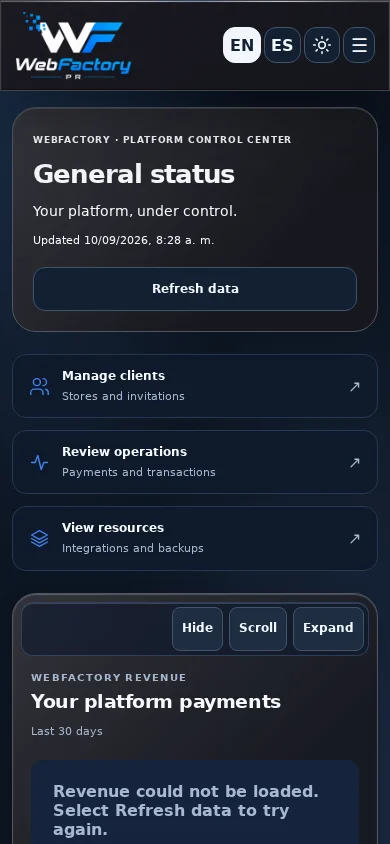
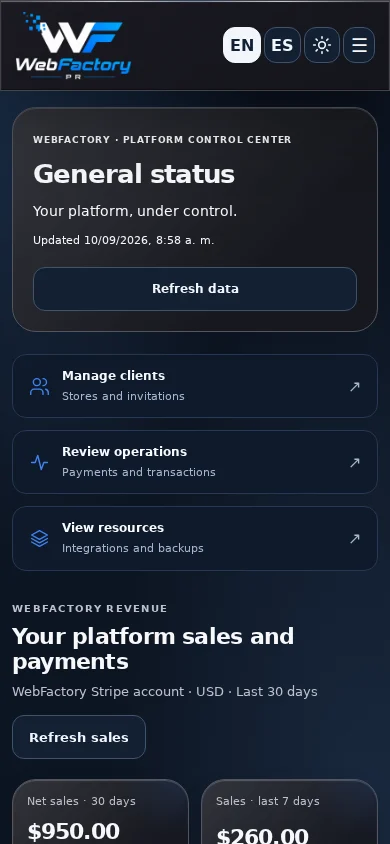
Add administrative sales cards and daily/refund charts with verified revenue states

Changed region(s): [[0.0308, 0.6777, 0.9538, 1.0], [0.8615, 0.8009, 0.9846, 0.955], [0.8615, 0.9858, 0.9231, 1.0]]

diff --git a/src/PlatformRevenue.tsx b/src/PlatformRevenue.tsx
@@ -1,22 +1,35 @@
 import { useEffect, useState } from 'react'
 import { PortalPanel } from './PortalPanel'
 import { withAuthRetry } from './auth-retry'
+import './platform-sales.css'
 
-type Revenue={available:boolean;reason?:string;complete?:boolean;mode?:string;generatedAt?:string;periodStart?:string;periodEnd?:string;netCents?:number;refundedCents?:number;paymentCount?:number;last7DaysCents?:number;days?:Array<{date:string;netCents:number}>}
+type Revenue={available:boolean;reason?:string;complete?:boolean;mode?:string;generatedAt?:string;periodStart?:string;periodEnd?:string;capturedCents?:number;netCents?:number;refundedCents?:number;paymentCount?:number;last7DaysCents?:number;days?:Array<{date:string;netCents:number}>}
 export default function PlatformRevenue({lang,refreshKey}:{lang:'en'|'es';refreshKey:string}){
-  const es=lang==='es';const [revenue,setRevenue]=useState<Revenue|null>(null);const [loading,setLoading]=useState(true)
-  useEffect(()=>{let active=true;setLoading(true);withAuthRetry(async()=>{const response=await fetch('/.netlify/functions/webfactory-admin-revenue',{credentials:'include',cache:'no-store'});const result=await response.json();if(!response.ok||result.ok===false)throw new Error('Revenue unavailable');return result.revenue as Revenue}).then(value=>{if(active)setRevenue(value)}).catch(()=>{if(active)setRevenue({available:false,reason:'temporarily_unavailable'})}).finally(()=>{if(active)setLoading(false)});return()=>{active=false}},[refreshKey])
+  const es=lang==='es';const [revenue,setRevenue]=useState<Revenue|null>(null);const [loading,setLoading]=useState(true);const [retry,setRetry]=useState(0)
+  useEffect(()=>{let active=true;setLoading(true);withAuthRetry(async()=>{const response=await fetch('/.netlify/functions/webfactory-admin-revenue',{credentials:'include',cache:'no-store'});const result=await response.json();if(!response.ok||result.ok===false)throw new Error('Revenue unavailable');return result.revenue as Revenue}).then(value=>{if(active)setRevenue(value)}).catch(()=>{if(active)setRevenue({available:false,reason:'temporarily_unavailable'})}).finally(()=>{if(active)setLoading(false)});return()=>{active=false}},[refreshKey,retry])
   const money=(cents:number)=>new Intl.NumberFormat(es?'es-PR':'en-US',{style:'currency',currency:'USD'}).format(cents/100)
   const chartAmount=(cents:number)=>new Intl.NumberFormat(es?'es-PR':'en-US',{notation:cents>=100000?'compact':'standard',maximumFractionDigits:cents>=100000?1:2}).format(cents/100)
   const date=(value:string)=>new Date(`${value}T12:00:00Z`).toLocaleDateString(es?'es-PR':'en-US',{month:'short',day:'numeric',timeZone:'America/Puerto_Rico'})
   const days=revenue?.days||[];const max=Math.max(1,...days.map(day=>day.netCents));const ready=!loading&&revenue?.available
-  return <PortalPanel className="wfa-card wfa-revenue"><header><div><small>{es?'INGRESOS DE WEBFACTORY':'WEBFACTORY REVENUE'}</small><h2>{es?'Cobros de tu plataforma':'Your platform payments'}</h2></div><span className="wfa-revenue-period">{es?'Últimos 30 días':'Last 30 days'}</span></header>
-    <div aria-live="polite">{loading?<p className="wfa-empty">{es?'Consultando cobros en Stripe…':'Loading payments from Stripe…'}</p>:!revenue?.available?<p className="wfa-empty">{revenue?.reason==='not_configured'?(es?'Conecta Stripe para consultar los cobros de WebFactory.':'Configure Stripe to view WebFactory payments.'):(es?'No pudimos consultar los ingresos. Pulsa Actualizar datos para intentar de nuevo.':'Revenue could not be loaded. Select Refresh data to try again.')}</p>:null}</div>
-    {ready&&<>{revenue.mode==='test'&&<p className="wfa-alert danger" role="status">{es?'MODO DE PRUEBAS · Estos cobros no son ingresos reales.':'TEST MODE · These payments are not real revenue.'}</p>}{!revenue.complete&&<p className="wfa-alert danger" role="status">{es?'Historial parcial: los totales corresponden solo a los cobros cargados.':'Partial history: totals only reflect loaded payments.'}</p>}
-    <div className="wfa-revenue-metrics">{[[es?'Cobros netos · 30 días':'Net payments · 30 days',money(revenue.netCents||0),es?'Cobrado menos reembolsos':'Captured less refunds'],[es?'Últimos 7 días':'Last 7 days',money(revenue.last7DaysCents||0),es?'Total de la gráfica':'Chart total'],[es?'Pagos confirmados':'Confirmed payments',String(revenue.paymentCount||0),es?'Dentro del período':'Within this period'],[es?'Reembolsos aplicados':'Applied refunds',money(revenue.refundedCents||0),es?'Sobre cobros del período':'On payments in this period']].map(([label,value,note])=><article key={label}><small>{label}</small><strong>{value}</strong><span>{note}</span></article>)}</div>
-    <h3>{es?'Cobros de los últimos 7 días':'Payments in the last 7 days'}</h3><div className="wfa-revenue-chart" role="img" aria-label={days.map(day=>`${date(day.date)}: ${money(day.netCents)}`).join('; ')}>{days.map(day=><div key={day.date}><span title={money(day.netCents)}>{chartAmount(day.netCents)}</span><div className="wfa-revenue-track"><i style={{height:`${day.netCents/max*100}%`}}/></div><small>{new Date(`${day.date}T12:00:00Z`).toLocaleDateString(es?'es-PR':'en-US',{weekday:'short',timeZone:'America/Puerto_Rico'})}</small></div>)}</div>
-    {!revenue.paymentCount&&<p className="wfa-note">{es?'No hay cobros confirmados en este período.':'No confirmed payments in this period.'}</p>}
-    <p className="wfa-note">{revenue.periodStart&&date(revenue.periodStart)} – {revenue.periodEnd&&date(revenue.periodEnd)} · USD · {es?'Puerto Rico':'Puerto Rico'}{revenue.generatedAt&&` · ${es?'Actualizado':'Updated'} ${new Date(revenue.generatedAt).toLocaleTimeString(es?'es-PR':'en-US',{hour:'numeric',minute:'2-digit',timeZone:'America/Puerto_Rico'})}`}</p>
-    <p className="wfa-note">{es?'Cuenta Stripe de WebFactory. Excluye ventas destinadas a clientes, otras monedas y cobros disputados. Antes de comisiones, impuestos y gastos; no representa ganancias ni saldo disponible. Los reembolsos se descuentan del día original del cobro.':'WebFactory Stripe account. Excludes client destination payments, other currencies and disputed charges. Before fees, taxes and expenses; this is not profit or available balance. Refunds reduce the original payment day.'}</p></>}
-  </PortalPanel>
+  const metrics=[[es?'Ventas netas · 30 días':'Net sales · 30 days',money(revenue?.netCents||0),es?'Cobros menos reembolsos':'Payments less refunds'],[es?'Ventas · últimos 7 días':'Sales · last 7 days',money(revenue?.last7DaysCents||0),es?'Total de la gráfica diaria':'Daily chart total'],[es?'Pagos confirmados':'Confirmed payments',String(revenue?.paymentCount||0),es?'Dentro del período':'Within this period'],[es?'Reembolsos aplicados':'Applied refunds',money(revenue?.refundedCents||0),es?'Sobre cobros del período':'On payments in this period']]
+  const breakdown=[[es?'Cobros recibidos':'Captured payments',revenue?.capturedCents??((revenue?.netCents||0)+(revenue?.refundedCents||0))],[es?'Reembolsos':'Refunds',revenue?.refundedCents||0]] as Array<[string,number]>
+  const breakdownMax=Math.max(1,...breakdown.map(([,amount])=>amount))
+  return <section className="wfa-sales wfa-revenue" aria-label={es?'Ventas de WebFactory':'WebFactory sales'} aria-busy={loading}>
+    <header className="wfa-sales-heading"><div><small>{es?'INGRESOS DE WEBFACTORY':'WEBFACTORY REVENUE'}</small><h2>{es?'Ventas y cobros de tu plataforma':'Your platform sales and payments'}</h2><p>{es?'Cuenta Stripe de WebFactory · USD · Últimos 30 días':'WebFactory Stripe account · USD · Last 30 days'}</p></div><button type="button" onClick={()=>setRetry(value=>value+1)} disabled={loading}>{es?'Actualizar ventas':'Refresh sales'}</button></header>
+    <div aria-live="polite">{loading?<p className="wfa-empty">{es?'Consultando cobros en Stripe…':'Loading payments from Stripe…'}</p>:!revenue?.available?<p className="wfa-empty">{revenue?.reason==='not_configured'?(es?'Conecta Stripe para consultar los cobros de WebFactory.':'Configure Stripe to view WebFactory payments.'):(es?'No pudimos consultar los ingresos. Pulsa Actualizar ventas para intentar de nuevo.':'Revenue could not be loaded. Select Refresh sales to try again.')}</p>:null}</div>
+    {ready&&<>{revenue.mode==='test'&&<p className="wfa-alert danger" role="status">{es?'MODO DE PRUEBAS · Estos cobros no son ingresos reales.':'TEST MODE · These payments are not real revenue.'}</p>}{!revenue.complete&&<p className="wfa-alert danger" role="status">{es?'Historial parcial: los totales corresponden solo a los cobros cargados.':'Partial history: totals only reflect loaded payments.'}</p>}</>}
+    <div className="wfa-sales-metrics">{metrics.map(([label,value,note])=><article className="wfa-stat" key={label}><small>{label}</small><strong>{ready?value:'—'}</strong><span>{ready?note:(es?'Pendiente de datos verificados':'Awaiting verified data')}</span></article>)}</div>
+    <div className="wfa-sales-charts">
+      <PortalPanel className="wfa-card wfa-sales-chart"><header><div><small>{es?'RENDIMIENTO':'PERFORMANCE'}</small><h3>{es?'Ventas de los últimos 7 días':'Sales in the last 7 days'}</h3></div><strong>{ready?money(revenue.last7DaysCents||0):'—'}</strong></header>
+        {ready?<div className="wfa-revenue-chart" role="img" aria-label={days.map(day=>`${date(day.date)}: ${money(day.netCents)}`).join('; ')}>{days.map(day=><div key={day.date}><span title={money(day.netCents)}>{chartAmount(day.netCents)}</span><div className="wfa-revenue-track"><i style={{height:`${day.netCents/max*100}%`}}/></div><small>{new Date(`${day.date}T12:00:00Z`).toLocaleDateString(es?'es-PR':'en-US',{weekday:'short',timeZone:'America/Puerto_Rico'})}</small></div>)}</div>:<p className="wfa-sales-empty">{es?'La gráfica aparecerá cuando se puedan consultar los cobros.':'The chart will appear when payments can be retrieved.'}</p>}
+        <p className="wfa-note">{es?'USD · Cobros netos · Zona horaria de Puerto Rico':'USD · Net payments · Puerto Rico time zone'}</p>
+      </PortalPanel>
+      <PortalPanel className="wfa-card wfa-sales-chart"><header><div><small>{es?'RESUMEN DE COBROS':'PAYMENT SUMMARY'}</small><h3>{es?'Cobros y reembolsos':'Payments and refunds'}</h3></div></header>
+        {ready?<div className="wfa-sales-breakdown" role="img" aria-label={breakdown.map(([label,amount])=>`${label}: ${money(amount)}`).join('; ')}>{breakdown.map(([label,amount],index)=><div key={label}><div><span>{label}</span><strong>{money(amount)}</strong></div><div className="wfa-sales-track"><i className={index?'is-refund':''} style={{width:`${amount/breakdownMax*100}%`}}/></div></div>)}</div>:<p className="wfa-sales-empty">{es?'Sin datos disponibles. No se muestran importes estimados.':'No data available. Estimated amounts are not shown.'}</p>}
+        <p className="wfa-note">{es?'Últimos 30 días · Los reembolsos reducen las ventas netas.':'Last 30 days · Refunds reduce net sales.'}</p>
+      </PortalPanel>
+    </div>
+    {ready&&<>{!revenue.paymentCount&&<p className="wfa-note">{es?'No hay cobros confirmados en este período.':'No confirmed payments in this period.'}</p>}<p className="wfa-note">{revenue.periodStart&&date(revenue.periodStart)} – {revenue.periodEnd&&date(revenue.periodEnd)} · USD · Puerto Rico{revenue.generatedAt&&` · ${es?'Actualizado':'Updated'} ${new Date(revenue.generatedAt).toLocaleTimeString(es?'es-PR':'en-US',{hour:'numeric',minute:'2-digit',timeZone:'America/Puerto_Rico'})}`}</p></>}
+    <p className="wfa-note">{es?'Cuenta Stripe de WebFactory. Excluye ventas destinadas a clientes, otras monedas y cobros disputados. Antes de comisiones, impuestos y gastos; no representa ganancias ni saldo disponible. Los reembolsos se descuentan del día original del cobro.':'WebFactory Stripe account. Excludes client destination payments, other currencies and disputed charges. Before fees, taxes and expenses; this is not profit or available balance. Refunds reduce the original payment day.'}</p>
+  </section>
 }

diff --git a/src/StyleReferenceReview.tsx b/src/StyleReferenceReview.tsx
@@ -21,6 +21,7 @@ export default function StyleReferenceReview({ lang, device, theme }: {
     <section><h2>{es?'Carousel Glasssy V2':'Glasssy V2 carousel'}</h2><p className="pr-caption">{es?'Componentes y animaciones del código original, conectados al catálogo de ejemplo y a los colores de la plataforma. Prueba arrastrar, ampliar, guardar favoritos y reproducir.':'Original source components and animations, connected to the sample catalog and platform colors. Try dragging, expanding details, bookmarking and playing.'}</p><div className="template-site" style={{maxWidth:width,margin:'auto'}}><TemplateHighlights items={template.items} language={lang}/></div></section>
     <section><h2>{es ? 'Login Glassy' : 'Glassy login'}</h2><p><a href="/client-admin">{es ? 'Abrir login de clientes' : 'Open client login'} ↗</a> · <a href="/webfactory-admin">{es ? 'Abrir login administrativo' : 'Open admin login'} ↗</a></p><figure className="pr-shot"><img src={`/preview-review/styles/login-${width}-${theme}.webp`} alt={es ? 'Login con fondo original, botones azules y formulario de vidrio' : 'Login with original background, blue buttons and glass form'} /></figure></section>
     <section><h2>{es ? 'Dashboards Glassy' : 'Glassy dashboards'}</h2><div className="pr-style-dashboards">{(['client-admin', 'webfactory-admin'] as const).map(portal => <figure className="pr-shot" key={portal}><img src={`/preview-review/styles/${portal}-overview-${width}-${theme}.webp`} alt={portal === 'client-admin' ? (es ? 'Panel de negocio con vidrio y fondo original' : 'Business dashboard with glass and original background') : (es ? 'Centro administrativo con vidrio y fondo original' : 'Administrative center with glass and original background')} /><figcaption>{portal === 'client-admin' ? (es ? 'Panel del negocio · Datos de ejemplo' : 'Business dashboard · Sample data') : (es ? 'Centro administrativo · Datos de ejemplo' : 'Administrative center · Sample data')}</figcaption></figure>)}</div></section>
+    <section><h2>{es?'Ventas administrativas':'Administrative sales'}</h2><p className="pr-caption">{es?'Tarjetas de ventas netas, últimos siete días, pagos y reembolsos. Gráficas diarias y de cobros frente a reembolsos. Capturas con datos de ejemplo; no representan ingresos reales.':'Net sales, last seven days, payments and refunds cards. Daily and payments-versus-refunds charts. Captures use sample data and do not represent real revenue.'}</p><figure className="pr-shot"><img src={`/preview-review/styles/sales-cards-${width}-${theme}.webp`} alt={es?'Cuatro tarjetas de ventas administrativas con datos de ejemplo':'Four administrative sales cards using sample data'}/></figure><div className="pr-style-dashboards">{['daily','refunds'].map(chart=><figure className="pr-shot" key={chart}><img src={`/preview-review/styles/sales-${chart}-${width}-${theme}.webp`} alt={es?(chart==='daily'?'Gráfica diaria de ventas de ejemplo':'Gráfica de cobros y reembolsos de ejemplo'):(chart==='daily'?'Sample daily sales chart':'Sample payments and refunds chart')}/></figure>)}</div></section>
     <section><h2>{es ? 'Recibo con impresora 3D' : 'Receipt with 3D printer'}</h2><p className="pr-caption">{es ? 'Impresión progresiva, papel curvado y controles para desprender e inspeccionar el recibo. Datos de ejemplo; el portal conserva el recibo guardado, PDF y reenvío.' : 'Progressive printing, curved paper and controls to tear and inspect the receipt. Sample data; the portal retains saved receipts, PDF and resend.'}</p><div className="pr-style-receipt" key={`${device}-${theme}`}><ReceiptPaper receipt={sample} lang={lang}/></div></section>
     <section><h2>{es ? 'Animación hacia el carrito' : 'Fly-to-cart animation'}</h2><p>{es ? 'Abre el catálogo del template y pulsa Añadir para ver cómo la imagen llega al carrito.' : 'Open the template catalog and press Add to see the image fly to the cart.'}</p><a href="/templates/brisa-cocina#services">{es ? 'Probar el carrito del template' : 'Try the template cart'} ↗</a></section>
   </div>

diff --git a/src/platform-sales.css b/src/platform-sales.css
@@ -1,0 +1,33 @@
+.wfa-sales{margin:26px 0;color:var(--pg-text)}
+.wfa-sales-heading{display:flex;align-items:center;justify-content:space-between;gap:20px;margin:0 0 20px}
+.wfa-sales-heading small,.wfa-sales-chart header small{font-size:10px;font-weight:750;letter-spacing:.13em;color:var(--pg-muted)}
+.wfa-sales-heading h2{font-size:clamp(22px,3vw,30px);letter-spacing:-.035em;margin:8px 0}
+.wfa-sales-heading p{font-size:13px;color:var(--pg-muted);margin:0;line-height:1.5}
+.wfa-sales-heading button{min-height:44px;border:1px solid var(--pg-line);border-radius:12px;background:var(--pg-solid);color:var(--pg-text);padding:10px 16px;font:inherit;font-size:13px;font-weight:650;cursor:pointer;white-space:nowrap}
+.wfa-sales-heading button:disabled{opacity:.6;cursor:wait}
+.wfa-sales-metrics{display:grid;grid-template-columns:repeat(4,minmax(0,1fr));gap:14px;margin-bottom:22px}
+.wfa-sales-metrics .wfa-stat{min-width:0;display:grid;gap:12px;padding:24px;border-radius:20px}
+.wfa-sales-metrics small{font-size:14px;line-height:1.4;color:var(--pg-muted)}
+.wfa-sales-metrics strong{font-size:clamp(24px,2.5vw,36px);font-weight:650;letter-spacing:-.04em;line-height:1.1;font-variant-numeric:tabular-nums;overflow-wrap:anywhere}
+.wfa-sales-metrics span{font-size:12px;line-height:1.5;color:var(--pg-muted)}
+.wfa-sales-charts{display:grid;grid-template-columns:minmax(0,1.15fr) minmax(0,1fr);gap:20px}
+.wfa-sales-chart{min-width:0;padding:24px}
+.wfa-sales-chart>header{display:flex;justify-content:space-between;align-items:center;gap:14px;margin:6px 0 20px;flex-wrap:wrap}
+.wfa-sales-chart header>strong{font-size:20px;font-variant-numeric:tabular-nums}
+.wfa-sales .wfa-sales-chart h3{font-size:18px;letter-spacing:-.025em;margin:8px 0 0}
+.wfa-sales .wfa-revenue-chart{gap:10px;margin:0;height:175px}
+.wfa-sales .wfa-revenue-chart>div{grid-template-rows:20px 130px 20px;gap:5px}
+.wfa-sales .wfa-revenue-chart span,.wfa-sales .wfa-revenue-chart small{font-size:11px;color:var(--pg-muted)}
+.wfa-sales .wfa-revenue-track,.wfa-sales-track{background:var(--pg-soft);border-radius:9px}
+.wfa-sales .wfa-revenue-track i,.wfa-sales-track i{background:linear-gradient(180deg,#6aaaff,#2878ed);border-radius:9px}
+.wfa-sales-breakdown{display:grid;gap:26px;align-content:center;min-height:175px}
+.wfa-sales-breakdown>div>div:first-child{display:flex;justify-content:space-between;gap:12px;margin-bottom:12px;font-size:13px}
+.wfa-sales-breakdown strong{font-variant-numeric:tabular-nums;overflow-wrap:anywhere}
+.wfa-sales-track{height:18px;overflow:hidden}
+.wfa-sales-track i{display:block;height:100%}
+.wfa-sales-track .is-refund{background:var(--pg-accent);opacity:.6}
+.wfa-sales-empty{display:grid;place-content:center;min-height:175px;font-size:14px;color:var(--pg-muted);line-height:1.6;margin:0}
+.wfa-sales .wfa-note{color:var(--pg-muted);font-size:12px;line-height:1.6}
+@media(max-width:1100px){.wfa-sales-metrics{grid-template-columns:repeat(2,minmax(0,1fr))}.wfa-sales-charts{grid-template-columns:1fr}}
+@media(max-width:560px){.wfa-sales-heading{align-items:flex-start;flex-direction:column;gap:14px}.wfa-sales-metrics{gap:12px}.wfa-sales-metrics .wfa-stat{padding:18px 14px}.wfa-sales-metrics strong{font-size:26px}.wfa-sales-metrics small{font-size:13px}.wfa-sales-chart{padding:18px}.wfa-sales .wfa-revenue-chart{gap:5px}.wfa-sales .wfa-revenue-chart span{font-size:10px}}
+@media(forced-colors:active){.wfa-sales .wfa-revenue-track i,.wfa-sales-track i{background:Highlight}}
